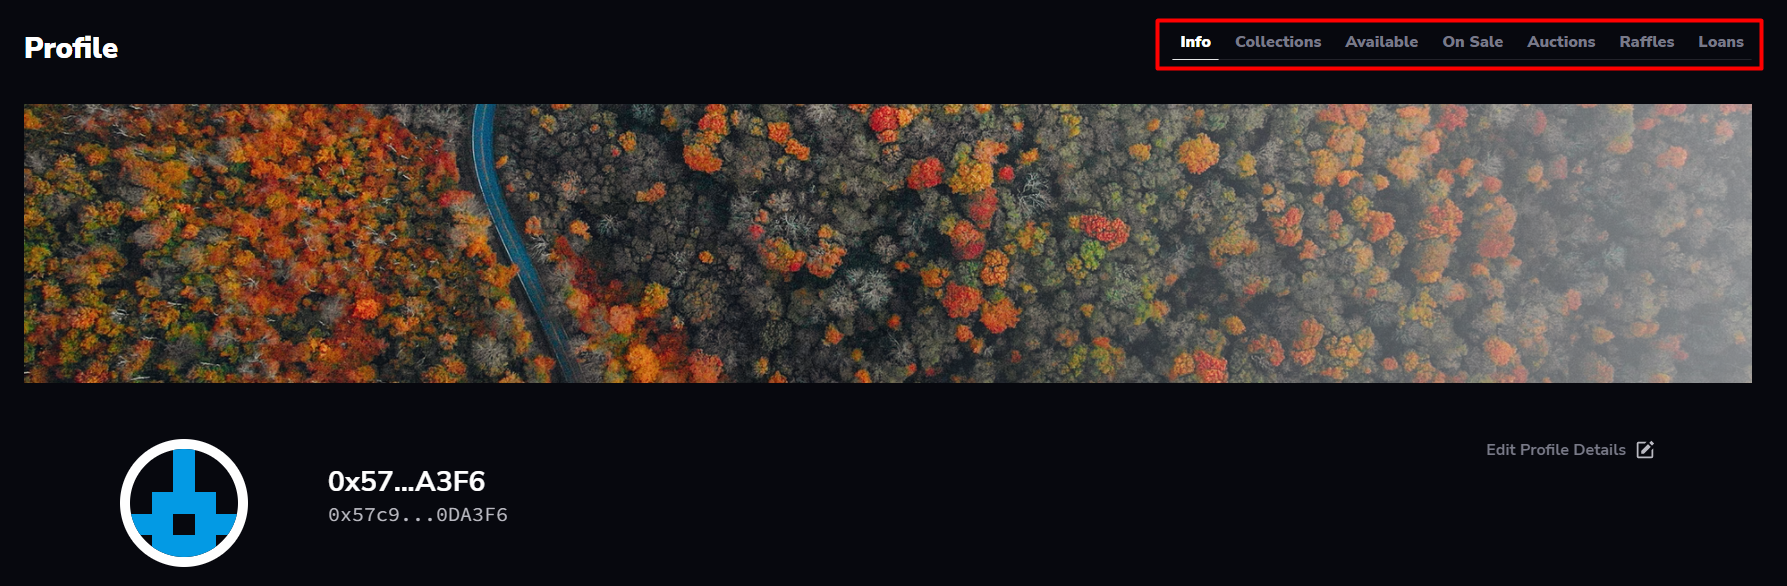
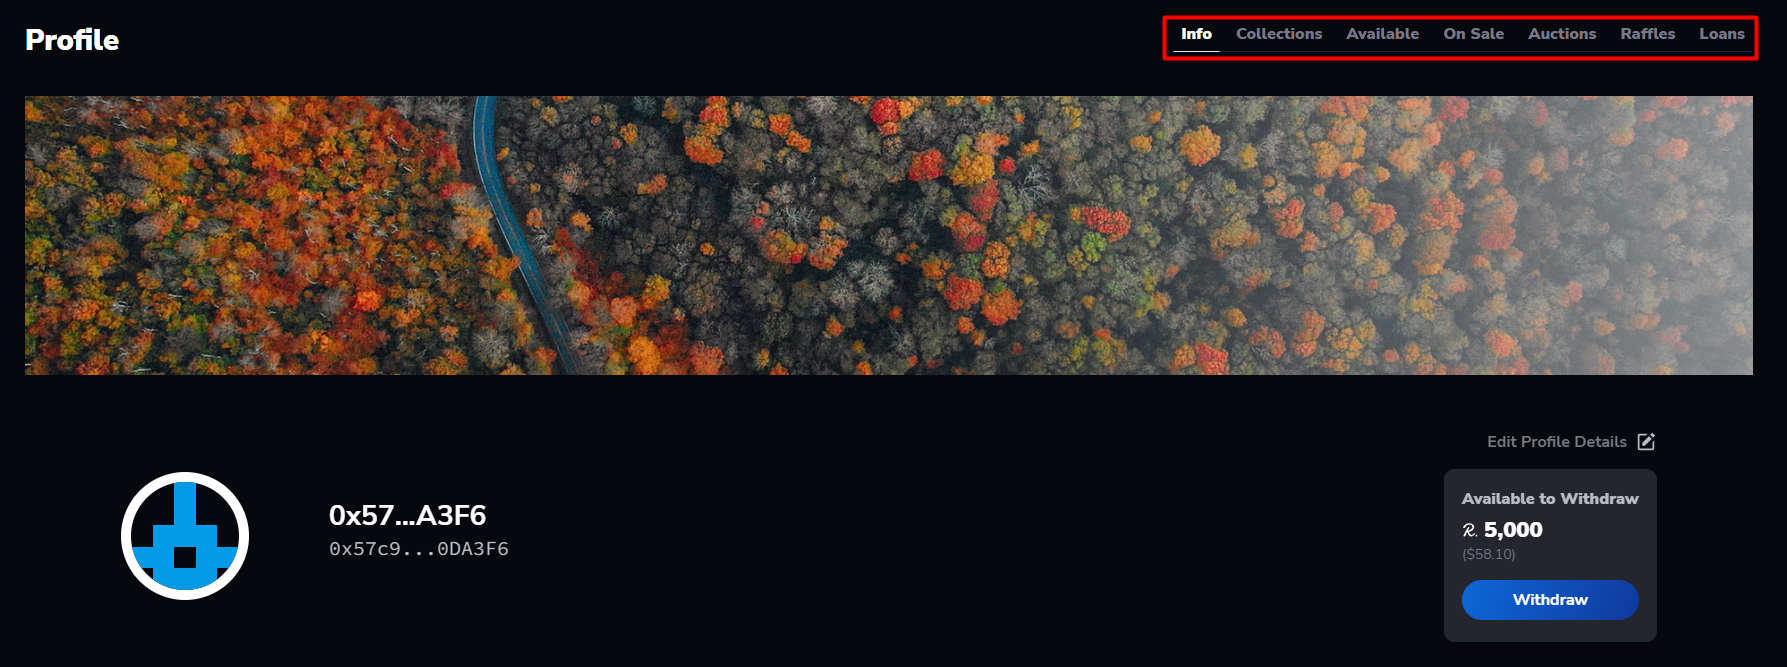
Withdraw sections

diff --git a/accounts/sign_in.md b/accounts/sign_in.md
@@ -27,7 +27,8 @@ Once you have signed in, you will find additional options in the connection pane
 
 -   **View Profile**: Opens your [profile page](../accounts/profile.md#profile).
 -   **Balance**: Shows you the balance of your current address.
--   **Withdraw**: In case your REEF balance is higher to zero, this option will be shown and you will be able to withdraw the REEF into your account. Your REEF balance will increment when you receive royalty fees or after an auction you bid on has ended and you have not been the highest bidder.
+-   **Available to withdraw**: In case your REEF balance is higher to zero, this option will be shown and you will be able to withdraw the REEF into your account. Your REEF balance will increment when you bid on has ended and you have not been the highest bidder.
+-   **Logout**: Closes session for the current account.
 
 <p align="center">
   <img width="250" src="../images/signed_in.png">

diff --git a/accounts/profile.md b/accounts/profile.md
@@ -10,7 +10,7 @@ Profile pages are public, but only the owner of the account can edit it. To acce
 
 Your profile page will open and you will be able to navigate through the following tabs:
 
--   **Info**: From here you can edit your display name and description.
+-   **Info**: From here you can edit your display name and description and withdraw the balance you have available in the marketplace.
 -   **Collections**: Lists all the collections you have created.
 -   **Available**: Lists all your available collectibles, that is, all owned NFTs that are not currently on sale, auction, raffle, or loan.
 -   **On Sale**: Lists all your collectibles on sale.
